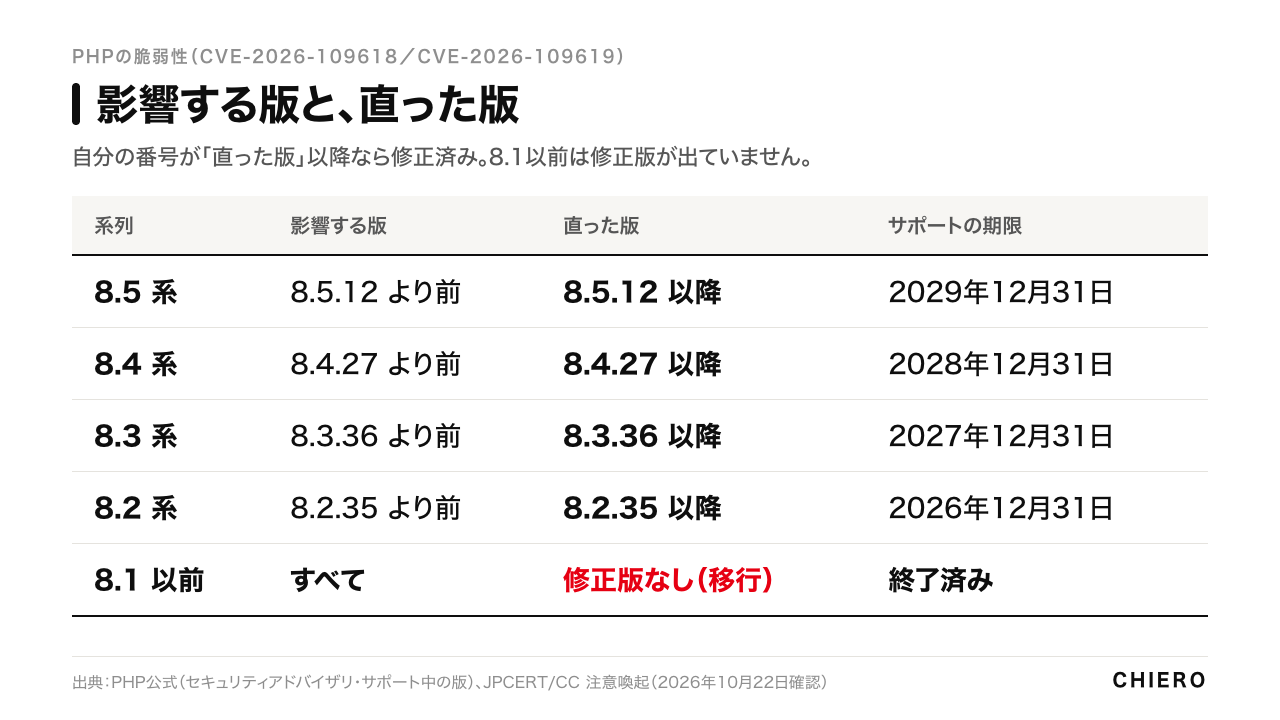
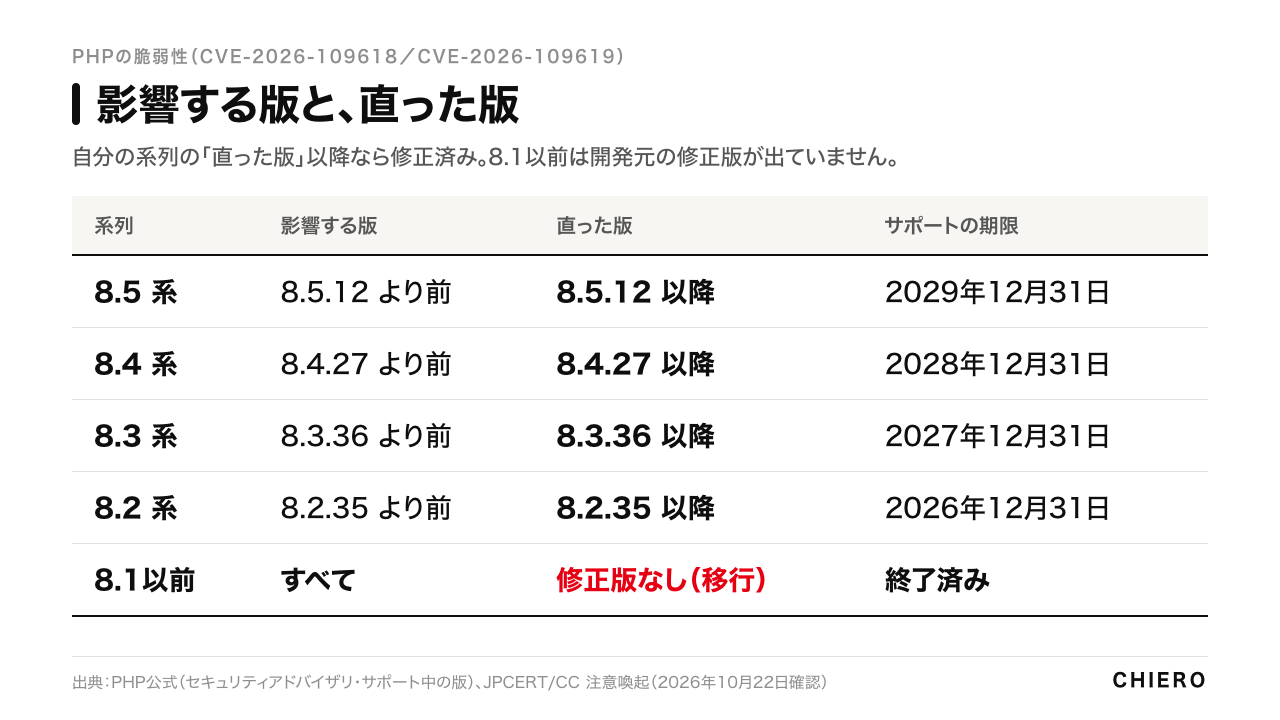
ai/php-vulnerability: 独立点検の指摘を反映（版は系列ごと・確認の時刻・WAFの記述・4パターンの次の手・8.1以前ですぐ切り替えられない時・図解の更新）

diff --git a/ai/php-vulnerability/index.html b/ai/php-vulnerability/index.html
@@ -1,8 +1,8 @@
-<!doctype html><html lang="ja"><head><meta charset="utf-8"><meta name="viewport" content="width=device-width,initial-scale=1"><title>PHPの脆弱性（CVE-2026-109618・109619）今日やること｜初心者向けに4パターンで整理｜CHIERO</title><meta name="description" content="総理大臣も対応を呼びかけたPHPの重大な脆弱性。影響する版と直った版（8.5.12・8.4.27・8.3.36・8.2.35）、WordPress・外注・ノーコード・何も分からない人の4パターン別の確認手順、業者への聞き方の文例、今後の習慣を、PHP公式・JPCERT/CC・IPAの公表をもとにまとめました。"><link rel="canonical" href="https://chiero.jp/ai/php-vulnerability/"><meta name="robots" content="index,follow"><meta property="og:type" content="article"><meta property="og:site_name" content="株式会社CHIERO"><meta property="og:title" content="PHPの脆弱性（CVE-2026-109618・109619）今日やること｜初心者向けに4パターンで整理｜CHIERO"><meta property="og:description" content="総理大臣も対応を呼びかけたPHPの重大な脆弱性。影響する版と直った版（8.5.12・8.4.27・8.3.36・8.2.35）、WordPress・外注・ノーコード・何も分からない人の4パターン別の確認手順、業者への聞き方の文例、今後の習慣を、PHP公式・JPCERT/CC・IPAの公表をもとにまとめました。"><meta property="og:url" content="https://chiero.jp/ai/php-vulnerability/"><meta property="og:image" content="https://chiero.jp/ai/php-vulnerability/og.png"><meta property="og:image:width" content="1200"><meta property="og:image:height" content="630"><meta property="og:locale" content="ja_JP"><meta name="twitter:card" content="summary_large_image"><meta name="twitter:site" content="@chiero_piero"><meta name="twitter:title" content="PHPの脆弱性（CVE-2026-109618・109619）今日やること｜初心者向けに4パターンで整理｜CHIERO"><meta name="twitter:description" content="総理大臣も対応を呼びかけたPHPの重大な脆弱性。影響する版と直った版（8.5.12・8.4.27・8.3.36・8.2.35）、WordPress・外注・ノーコード・何も分からない人の4パターン別の確認手順、業者への聞き方の文例、今後の習慣を、PHP公式・JPCERT/CC・IPAの公表をもとにまとめました。"><meta name="twitter:image" content="https://chiero.jp/ai/php-vulnerability/og.png"><meta name="theme-color" content="#E60012"><link rel="icon" href="/assets/renewal/favicon.svg" type="image/svg+xml"><link rel="stylesheet" href="/assets/renewal/site.css?v=ae48ebfeb38d"><link rel="stylesheet" href="/assets/renewal/learn.css?v=06a2a3f8677e"><script type="application/ld+json">{"@context": "https://schema.org", "@graph": [{"@type": "Organization", "@id": "https://chiero.jp/#organization", "name": "株式会社CHIERO", "legalName": "株式会社CHIERO", "alternateName": "CHIERO Inc.", "url": "https://chiero.jp/", "logo": "https://chiero.jp/apple-touch-icon.png", "description": "チエロ（株式会社CHIERO 代表）は、AI・古典・コーチングを軸に、AIを仕事に入れたい経営者とAIを初めて使う人へ、経営相談・講座・手順の提供を行っています。自社の仕事をAI社員（役割ごとに決まりと手順を持たせたAI）に分けて毎日運営しており、運営の記録の一部を公開し、手順は「AI社員一式」として販売しています。", "foundingDate": "2020-12", "email": "info@chiero.jp", "address": {"@type": "PostalAddress", "addressCountry": "JP", "addressRegion": "福岡県", "addressLocality": "福岡市中央区", "streetAddress": "今泉1丁目3-23"}, "contactPoint": [{"@type": "ContactPoint", "contactType": "customer support", "email": "info@chiero.jp", "url": "https://chiero.jp/contact/", "availableLanguage": ["ja", "en"]}, {"@type": "ContactPoint", "contactType": "consulting inquiries", "email": "work@chiero.jp", "url": "https://work.chiero.jp/", "availableLanguage": ["ja"]}, {"@type": "ContactPoint", "contactType": "media inquiries", "email": "press@chiero.jp", "url": "https://chiero.jp/contact/", "availableLanguage": ["ja"]}], "founder": {"@id": "https://chiero.jp/about/#person"}, "knowsAbout": ["AI社員の運用", "経営相談", "コーチング", "AIの使い方", "出版", "数式アート"], "sameAs": ["https://www.threads.com/@chiero_piero", "https://x.com/chiero_piero", "https://www.instagram.com/chiero_piero/", "https://note.com/kounkt", "https://www.youtube.com/channel/UCS9wlXLeVxTqXgPWU3kn7EQ"]}, {"@type": "Person", "@id": "https://chiero.jp/about/#person", "name": "チエロ", "alternateName": ["中田 光", "Ko Nakata", "CHIERO"], "jobTitle": "代表取締役", "description": "福岡生まれ。九州大学大学院でITと医療を研究したのち、プロの大道芸人として福岡・東京・シドニーで活動。IT企業を経て、2020年12月に株式会社CHIEROを創業。", "url": "https://chiero.jp/about/", "image": "https://chiero.jp/assets/top/img/chiero-640.webp", "worksFor": {"@id": "https://chiero.jp/#organization"}, "knowsAbout": ["AI社員の運用", "経営相談", "コーチング", "出版"], "sameAs": ["https://www.threads.com/@chiero_piero", "https://x.com/chiero_piero", "https://www.instagram.com/chiero_piero/", "https://note.com/kounkt", "https://www.youtube.com/channel/UCS9wlXLeVxTqXgPWU3kn7EQ", "https://www.amazon.co.jp/stores/author/B0DQGV7F8D"]}, {"@type": "WebSite", "@id": "https://chiero.jp/#website", "url": "https://chiero.jp/", "name": "CHIERO", "publisher": {"@id": "https://chiero.jp/#organization"}}, {"@type": "WebPage", "@id": "https://chiero.jp/ai/php-vulnerability/#webpage", "url": "https://chiero.jp/ai/php-vulnerability/", "name": "PHPの脆弱性（CVE-2026-109618・109619）今日やること｜初心者向けに4パターンで整理｜CHIERO", "description": "総理大臣も対応を呼びかけたPHPの重大な脆弱性。影響する版と直った版（8.5.12・8.4.27・8.3.36・8.2.35）、WordPress・外注・ノーコード・何も分からない人の4パターン別の確認手順、業者への聞き方の文例、今後の習慣を、PHP公式・JPCERT/CC・IPAの公表をもとにまとめました。", "inLanguage": "ja", "publisher": {"@id": "https://chiero.jp/#organization"}, "isPartOf": {"@id": "https://chiero.jp/#website"}, "breadcrumb": {"@id": "https://chiero.jp/ai/php-vulnerability/#breadcrumb"}, "mainEntity": {"@id": "https://chiero.jp/ai/php-vulnerability/#article"}}, {"@type": "BreadcrumbList", "@id": "https://chiero.jp/ai/php-vulnerability/#breadcrumb", "itemListElement": [{"@type": "ListItem", "position": 1, "name": "CHIERO", "item": "https://chiero.jp/"}, {"@type": "ListItem", "position": 2, "name": "AIのはじめ方", "item": "https://chiero.jp/ai/"}, {"@type": "ListItem", "position": 3, "name": "PHPの脆弱性、今日やること", "item": "https://chiero.jp/ai/php-vulnerability/"}]}, {"@type": "Article", "@id": "https://chiero.jp/ai/php-vulnerability/#article", "headline": "PHPの脆弱性（CVE-2026-109618・109619）今日やること｜初心者向けに4パターンで整理", "description": "総理大臣も対応を呼びかけたPHPの重大な脆弱性。影響する版と直った版（8.5.12・8.4.27・8.3.36・8.2.35）、WordPress・外注・ノーコード・何も分からない人の4パターン別の確認手順、業者への聞き方の文例、今後の習慣を、PHP公式・JPCERT/CC・IPAの公表をもとにまとめました。", "inLanguage": "ja", "image": "https://chiero.jp/ai/php-vulnerability/og.png", "author": {"@id": "https://chiero.jp/#organization"}, "publisher": {"@id": "https://chiero.jp/#organization"}, "mainEntityOfPage": {"@id": "https://chiero.jp/ai/php-vulnerability/#webpage"}, "datePublished": "2026-10-22", "dateModified": "2026-10-22"}, {"@type": "FAQPage", "@id": "https://chiero.jp/ai/php-vulnerability/#faq", "inLanguage": "ja", "mainEntity": [{"@type": "Question", "name": "PHPの脆弱性で、何が起きたの？", "acceptedAnswer": {"@type": "Answer", "text": "PHPに重大な弱点が2件見つかり、直した版が公開されました。直すのはPHPそのものです。 2026年10月21日（日本時間の夜）、PHPの開発チームが、重大な脆弱性2件（CVE-2026-109618・CVE-2026-109619）を直した 8.5.12・8.4.27・8.3.36・8.2.35 を公開しました。ログインなしで、外からサーバーの上で命令を動かされるおそれ（任意のコード実行）があり、深刻さはどちらもCVSS v4.0で9.2です。8.1以前には修正版が出ません。WordPressやプラグインの更新とは別に、PHPの版を新しくする必要があります。"}}, {"@type": "Question", "name": "どの版が危ないの？", "acceptedAnswer": {"@type": "Answer", "text": "8.5.12・8.4.27・8.3.36・8.2.35 より前の版と、8.1以前の全ての版です。"}}, {"@type": "Question", "name": "自分のサイトは関係ある？", "acceptedAnswer": {"@type": "Answer", "text": "PHPを誰が管理しているかで、やることが変わります。4つのパターンで確かめます。"}}, {"@type": "Question", "name": "今日、何をすればいい？", "acceptedAnswer": {"@type": "Answer", "text": "PHPの版の番号を見て、表と照らし、古ければ切り替えを相談します。"}}, {"@type": "Question", "name": "制作会社や保守会社には、どう聞けばいい？", "acceptedAnswer": {"@type": "Answer", "text": "「版の番号」「いつ直したか」「8.1以前なら移行の予定」「痕跡の確認」の4つを聞きます。 そのまま送れる文例です。会社名や宛名だけ書き換えてください。"}}, {"@type": "Question", "name": "自分でサーバーを管理している場合は？", "acceptedAnswer": {"@type": "Answer", "text": "PHP公式のアドバイザリとJPCERT/CCの注意喚起を直接読み、更新と痕跡の確認をします。"}}, {"@type": "Question", "name": "今後、何に気をつければいい？", "acceptedAnswer": {"@type": "Answer", "text": "自動更新・サポート期限・バックアップ・担当と連絡先。この4つを決めておきます。"}}, {"@type": "Question", "name": "困った時は、どこに相談すればいい？", "acceptedAnswer": {"@type": "Answer", "text": "株式会社CHIEROの公式LINEと、公式サイトの経営相談で受け付けています。 「番号は見たけれど、どうすればいいか分からない」「業者の返事の意味を知りたい」。そんな時は、お気軽にご相談ください。AIを使った経営相談の中で、状況の整理と業者への聞き方づくりをお手伝いします。"}}]}, {"@type": "HowTo", "@id": "https://chiero.jp/ai/php-vulnerability/#howto-check", "name": "PHPの版の番号を見て、表と照らし、古ければ切り替えを相談します。", "inLanguage": "ja", "step": [{"@type": "HowToStep", "position": 1, "name": "PHPの版の番号を見ます。", "text": "PHPの版の番号を見ます。WordPressなら、管理画面の「ツール」→「サイトヘルス」→「情報」→「サーバー」にある「PHPのバージョン」です。レンタルサーバーの管理画面の「PHP」や「PHPバージョン」の項目でも見られます。", "url": "https://chiero.jp/ai/php-vulnerability/#check"}, {"@type": "HowToStep", "position": 2, "name": "番号を上の表と照らします。", "text": "番号を上の表と照らします。8.5.12・8.4.27・8.3.36・8.2.35 以降なら修正済みの版です。番号がそれより前でも、契約先が「全ての版で対応済み」と告知していれば、会社の側で直している場合があります。迷ったら契約先に聞きます。", "url": "https://chiero.jp/ai/php-vulnerability/#check"}, {"@type": "HowToStep", "position": 3, "name": "8.1以前なら、切り替えを相談します。", "text": "8.1以前なら、切り替えを相談します。切り替える前にバックアップを取り、管理画面で8.3以上へ切り替えるのが目安です（8.2は2026年12月31日でサポートが終わります）。", "url": "https://chiero.jp/ai/php-vulnerability/#check"}, {"@type": "HowToStep", "position": 4, "name": "切り替えた後は、トップページ・問い合わせフォーム・予約やカートの画面が動くかを確かめます。", "text": "切り替えた後は、トップページ・問い合わせフォーム・予約やカートの画面が動くかを確かめます。", "url": "https://chiero.jp/ai/php-vulnerability/#check"}]}]}</script><script type="module" src="/assets/renewal/site.js?v=9b7728504f43"></script></head><body class="corporate-site"><a class="skip" href="#main">本文へスキップ</a><header class="header"><a class="brand" href="https://chiero.jp/"><span>CHIER<b>O</b><small>株式会社CHIERO</small></span></a><nav class="desktop-nav" aria-label="メインナビゲーション"><a href="https://work.chiero.jp/">相談の入口</a><a href="https://chiero.jp/works/">作品とアプリ</a><a href="https://chiero.jp/books/">著書</a><a href="https://chiero.jp/about/">会社と代表</a><a class="nav-cta" href="https://chiero.jp/contact/">お問い合わせ <span aria-hidden="true">↗</span></a></nav><details class="mobile-menu"><summary>メニュー <span aria-hidden="true">＋</span></summary><nav aria-label="モバイルナビゲーション"><a href="https://work.chiero.jp/">相談の入口</a><a href="https://chiero.jp/works/">作品とアプリ</a><a href="https://chiero.jp/books/">著書</a><a href="https://chiero.jp/about/">会社と代表</a><a class="nav-cta" href="https://chiero.jp/contact/">お問い合わせ <span aria-hidden="true">↗</span></a></nav></details></header><main id="main"><nav class="breadcrumbs wrap" aria-label="パンくずリスト"><a href="https://chiero.jp/">CHIERO</a><span aria-hidden="true">/</span><a href="https://chiero.jp/ai/">AIのはじめ方</a><span aria-hidden="true">/</span><span>PHPの脆弱性、今日やること</span></nav><article class="reading-page"><header class="wrap page-hero"><p class="eyebrow">GUIDE / セキュリティ</p><h1>PHPの脆弱性、<br><em>今日やること</em></h1><p class="lead">影響する版、自分に関係があるか、確認の手順と業者への聞き方、今後の習慣を、初めての方向けにまとめました。</p><p class="article-meta">執筆：<a href="https://chiero.jp/about/">株式会社CHIERO</a>（AI社員 security-writer が公開情報をもとに作成）<br>公開：<time datetime="2026-10-22">2026年10月22日</time> / 内容は2026年10月22日午後に公式の公表で確認</p></header><div class="wrap reading-layout"><nav class="reading-toc" aria-label="目次"><p class="eyebrow">ON THIS PAGE</p><a href="#answer">何が起きた？</a><a href="#versions">影響する版</a><a href="#who">自分は関係ある？</a><a href="#check">今日やること</a><a href="#ask">業者への聞き方</a><a href="#tech">技術担当の方へ</a><a href="#habits">今後の習慣</a><a href="#ours">当社の運用</a><a href="#contact">相談先</a><a href="#sources">確認した公式情報</a></nav><div class="reading-body"><section id="answer">
+<!doctype html><html lang="ja"><head><meta charset="utf-8"><meta name="viewport" content="width=device-width,initial-scale=1"><title>PHPの脆弱性（CVE-2026-109618・109619）今日やること｜初心者向けに4パターンで整理｜CHIERO</title><meta name="description" content="総理大臣も対応を呼びかけたPHPの重大な脆弱性。影響する版と直った版（8.5.12・8.4.27・8.3.36・8.2.35）、WordPress・外注・ノーコード・何も分からない人の4パターン別の確認手順、業者への聞き方の文例、今後の習慣を、PHP公式・JPCERT/CC・IPAの公表をもとにまとめました。"><link rel="canonical" href="https://chiero.jp/ai/php-vulnerability/"><meta name="robots" content="index,follow"><meta property="og:type" content="article"><meta property="og:site_name" content="株式会社CHIERO"><meta property="og:title" content="PHPの脆弱性（CVE-2026-109618・109619）今日やること｜初心者向けに4パターンで整理｜CHIERO"><meta property="og:description" content="総理大臣も対応を呼びかけたPHPの重大な脆弱性。影響する版と直った版（8.5.12・8.4.27・8.3.36・8.2.35）、WordPress・外注・ノーコード・何も分からない人の4パターン別の確認手順、業者への聞き方の文例、今後の習慣を、PHP公式・JPCERT/CC・IPAの公表をもとにまとめました。"><meta property="og:url" content="https://chiero.jp/ai/php-vulnerability/"><meta property="og:image" content="https://chiero.jp/ai/php-vulnerability/og.png"><meta property="og:image:width" content="1200"><meta property="og:image:height" content="630"><meta property="og:locale" content="ja_JP"><meta name="twitter:card" content="summary_large_image"><meta name="twitter:site" content="@chiero_piero"><meta name="twitter:title" content="PHPの脆弱性（CVE-2026-109618・109619）今日やること｜初心者向けに4パターンで整理｜CHIERO"><meta name="twitter:description" content="総理大臣も対応を呼びかけたPHPの重大な脆弱性。影響する版と直った版（8.5.12・8.4.27・8.3.36・8.2.35）、WordPress・外注・ノーコード・何も分からない人の4パターン別の確認手順、業者への聞き方の文例、今後の習慣を、PHP公式・JPCERT/CC・IPAの公表をもとにまとめました。"><meta name="twitter:image" content="https://chiero.jp/ai/php-vulnerability/og.png"><meta name="theme-color" content="#E60012"><link rel="icon" href="/assets/renewal/favicon.svg" type="image/svg+xml"><link rel="stylesheet" href="/assets/renewal/site.css?v=ae48ebfeb38d"><link rel="stylesheet" href="/assets/renewal/learn.css?v=06a2a3f8677e"><script type="application/ld+json">{"@context": "https://schema.org", "@graph": [{"@type": "Organization", "@id": "https://chiero.jp/#organization", "name": "株式会社CHIERO", "legalName": "株式会社CHIERO", "alternateName": "CHIERO Inc.", "url": "https://chiero.jp/", "logo": "https://chiero.jp/apple-touch-icon.png", "description": "チエロ（株式会社CHIERO 代表）は、AI・古典・コーチングを軸に、AIを仕事に入れたい経営者とAIを初めて使う人へ、経営相談・講座・手順の提供を行っています。自社の仕事をAI社員（役割ごとに決まりと手順を持たせたAI）に分けて毎日運営しており、運営の記録の一部を公開し、手順は「AI社員一式」として販売しています。", "foundingDate": "2020-12", "email": "info@chiero.jp", "address": {"@type": "PostalAddress", "addressCountry": "JP", "addressRegion": "福岡県", "addressLocality": "福岡市中央区", "streetAddress": "今泉1丁目3-23"}, "contactPoint": [{"@type": "ContactPoint", "contactType": "customer support", "email": "info@chiero.jp", "url": "https://chiero.jp/contact/", "availableLanguage": ["ja", "en"]}, {"@type": "ContactPoint", "contactType": "consulting inquiries", "email": "work@chiero.jp", "url": "https://work.chiero.jp/", "availableLanguage": ["ja"]}, {"@type": "ContactPoint", "contactType": "media inquiries", "email": "press@chiero.jp", "url": "https://chiero.jp/contact/", "availableLanguage": ["ja"]}], "founder": {"@id": "https://chiero.jp/about/#person"}, "knowsAbout": ["AI社員の運用", "経営相談", "コーチング", "AIの使い方", "出版", "数式アート"], "sameAs": ["https://www.threads.com/@chiero_piero", "https://x.com/chiero_piero", "https://www.instagram.com/chiero_piero/", "https://note.com/kounkt", "https://www.youtube.com/channel/UCS9wlXLeVxTqXgPWU3kn7EQ"]}, {"@type": "Person", "@id": "https://chiero.jp/about/#person", "name": "チエロ", "alternateName": ["中田 光", "Ko Nakata", "CHIERO"], "jobTitle": "代表取締役", "description": "福岡生まれ。九州大学大学院でITと医療を研究したのち、プロの大道芸人として福岡・東京・シドニーで活動。IT企業を経て、2020年12月に株式会社CHIEROを創業。", "url": "https://chiero.jp/about/", "image": "https://chiero.jp/assets/top/img/chiero-640.webp", "worksFor": {"@id": "https://chiero.jp/#organization"}, "knowsAbout": ["AI社員の運用", "経営相談", "コーチング", "出版"], "sameAs": ["https://www.threads.com/@chiero_piero", "https://x.com/chiero_piero", "https://www.instagram.com/chiero_piero/", "https://note.com/kounkt", "https://www.youtube.com/channel/UCS9wlXLeVxTqXgPWU3kn7EQ", "https://www.amazon.co.jp/stores/author/B0DQGV7F8D"]}, {"@type": "WebSite", "@id": "https://chiero.jp/#website", "url": "https://chiero.jp/", "name": "CHIERO", "publisher": {"@id": "https://chiero.jp/#organization"}}, {"@type": "WebPage", "@id": "https://chiero.jp/ai/php-vulnerability/#webpage", "url": "https://chiero.jp/ai/php-vulnerability/", "name": "PHPの脆弱性（CVE-2026-109618・109619）今日やること｜初心者向けに4パターンで整理｜CHIERO", "description": "総理大臣も対応を呼びかけたPHPの重大な脆弱性。影響する版と直った版（8.5.12・8.4.27・8.3.36・8.2.35）、WordPress・外注・ノーコード・何も分からない人の4パターン別の確認手順、業者への聞き方の文例、今後の習慣を、PHP公式・JPCERT/CC・IPAの公表をもとにまとめました。", "inLanguage": "ja", "publisher": {"@id": "https://chiero.jp/#organization"}, "isPartOf": {"@id": "https://chiero.jp/#website"}, "breadcrumb": {"@id": "https://chiero.jp/ai/php-vulnerability/#breadcrumb"}, "mainEntity": {"@id": "https://chiero.jp/ai/php-vulnerability/#article"}}, {"@type": "BreadcrumbList", "@id": "https://chiero.jp/ai/php-vulnerability/#breadcrumb", "itemListElement": [{"@type": "ListItem", "position": 1, "name": "CHIERO", "item": "https://chiero.jp/"}, {"@type": "ListItem", "position": 2, "name": "AIのはじめ方", "item": "https://chiero.jp/ai/"}, {"@type": "ListItem", "position": 3, "name": "PHPの脆弱性、今日やること", "item": "https://chiero.jp/ai/php-vulnerability/"}]}, {"@type": "Article", "@id": "https://chiero.jp/ai/php-vulnerability/#article", "headline": "PHPの脆弱性（CVE-2026-109618・109619）今日やること｜初心者向けに4パターンで整理", "description": "総理大臣も対応を呼びかけたPHPの重大な脆弱性。影響する版と直った版（8.5.12・8.4.27・8.3.36・8.2.35）、WordPress・外注・ノーコード・何も分からない人の4パターン別の確認手順、業者への聞き方の文例、今後の習慣を、PHP公式・JPCERT/CC・IPAの公表をもとにまとめました。", "inLanguage": "ja", "image": "https://chiero.jp/ai/php-vulnerability/og.png", "author": {"@id": "https://chiero.jp/#organization"}, "publisher": {"@id": "https://chiero.jp/#organization"}, "mainEntityOfPage": {"@id": "https://chiero.jp/ai/php-vulnerability/#webpage"}, "datePublished": "2026-10-22", "dateModified": "2026-10-22"}, {"@type": "FAQPage", "@id": "https://chiero.jp/ai/php-vulnerability/#faq", "inLanguage": "ja", "mainEntity": [{"@type": "Question", "name": "PHPの脆弱性で、何が起きたの？", "acceptedAnswer": {"@type": "Answer", "text": "PHPに重大な弱点が2件見つかり、直した版が公開されました。直すのはPHPそのものです。 2026年10月21日、PHPの開発チームが、重大な脆弱性2件（CVE-2026-109618・CVE-2026-109619）を直した 8.5.12・8.4.27・8.3.36・8.2.35 を公開しました。ログインなしで、外からサーバーの上で命令を動かされるおそれ（任意のコード実行）があり、深刻さはどちらもCVSS v4.0で9.2です。8.1以前には開発元からの修正版が出ません。WordPressやプラグインの更新とは別に、PHPの版を新しくする必要があります。"}}, {"@type": "Question", "name": "どの版が危ないの？", "acceptedAnswer": {"@type": "Answer", "text": "8.5.12・8.4.27・8.3.36・8.2.35 より前の版と、8.1以前の全ての版です。"}}, {"@type": "Question", "name": "自分のサイトは関係ある？", "acceptedAnswer": {"@type": "Answer", "text": "PHPを誰が管理しているかで、やることが変わります。4つのパターンで確かめます。"}}, {"@type": "Question", "name": "今日、何をすればいい？", "acceptedAnswer": {"@type": "Answer", "text": "PHPの版の番号を見て、表と照らし、古ければ切り替えを相談します。"}}, {"@type": "Question", "name": "制作会社や保守会社には、どう聞けばいい？", "acceptedAnswer": {"@type": "Answer", "text": "「版の番号」「いつ直したか」「8.1以前なら移行の予定」「痕跡の確認」の4つを聞きます。 そのまま送れる文例です。宛名を足し、必要なら「当サイト」を「弊社サイト」などに書き換えてください。"}}, {"@type": "Question", "name": "自分でサーバーを管理している場合は？", "acceptedAnswer": {"@type": "Answer", "text": "PHP公式のアドバイザリとJPCERT/CCの注意喚起を直接読み、更新と痕跡の確認をします。"}}, {"@type": "Question", "name": "今後、何に気をつければいい？", "acceptedAnswer": {"@type": "Answer", "text": "自動更新・サポート期限・バックアップ・担当と連絡先。この4つを決めておきます。"}}, {"@type": "Question", "name": "困った時は、どこに相談すればいい？", "acceptedAnswer": {"@type": "Answer", "text": "株式会社CHIEROの公式LINEと、公式サイトの経営相談で受け付けています。 「番号は見たけれど、どうすればいいか分からない」「業者の返事の意味を知りたい」。そんな時は、お気軽にご相談ください。AIを使った経営相談の中で、状況の整理と業者への聞き方づくりをお手伝いします。"}}]}, {"@type": "HowTo", "@id": "https://chiero.jp/ai/php-vulnerability/#howto-check", "name": "PHPの版の番号を見て、表と照らし、古ければ切り替えを相談します。", "inLanguage": "ja", "step": [{"@type": "HowToStep", "position": 1, "name": "PHPの版の番号を見ます。", "text": "PHPの版の番号を見ます。WordPressなら、管理画面の「ツール」→「サイトヘルス」→「情報」→「サーバー」にある「PHPのバージョン」です。レンタルサーバーの管理画面の「PHP」や「PHPバージョン」の項目でも見られます。", "url": "https://chiero.jp/ai/php-vulnerability/#check"}, {"@type": "HowToStep", "position": 2, "name": "番号を上の表と照らします。", "text": "番号を上の表と照らします。自分の系列で、8.5系は8.5.12、8.4系は8.4.27、8.3系は8.3.36、8.2系は8.2.35以降なら修正済みの版です。番号がそれより前でも、契約先が「全ての版で対応済み」と告知していれば、会社の側で直している場合があります。迷ったら契約先に聞きます。", "url": "https://chiero.jp/ai/php-vulnerability/#check"}, {"@type": "HowToStep", "position": 3, "name": "8.1以前なら、切り替えを相談します。", "text": "8.1以前なら、切り替えを相談します。切り替える前にバックアップを取り、管理画面で8.3以上へ切り替えるのが目安です（8.2は2026年12月31日でサポートが終わります）。すぐに切り替えられない時は、契約先や制作会社に、一時的な停止やアクセスの制限ができるかを聞きます（IPA・国家サイバー統括室も、すぐ直せない場合の手として挙げています）。", "url": "https://chiero.jp/ai/php-vulnerability/#check"}, {"@type": "HowToStep", "position": 4, "name": "切り替えた後は、トップページ・問い合わせフォーム・予約やカートの画面が動くかを確かめます。", "text": "切り替えた後は、トップページ・問い合わせフォーム・予約やカートの画面が動くかを確かめます。", "url": "https://chiero.jp/ai/php-vulnerability/#check"}]}]}</script><script type="module" src="/assets/renewal/site.js?v=9b7728504f43"></script></head><body class="corporate-site"><a class="skip" href="#main">本文へスキップ</a><header class="header"><a class="brand" href="https://chiero.jp/"><span>CHIER<b>O</b><small>株式会社CHIERO</small></span></a><nav class="desktop-nav" aria-label="メインナビゲーション"><a href="https://work.chiero.jp/">相談の入口</a><a href="https://chiero.jp/works/">作品とアプリ</a><a href="https://chiero.jp/books/">著書</a><a href="https://chiero.jp/about/">会社と代表</a><a class="nav-cta" href="https://chiero.jp/contact/">お問い合わせ <span aria-hidden="true">↗</span></a></nav><details class="mobile-menu"><summary>メニュー <span aria-hidden="true">＋</span></summary><nav aria-label="モバイルナビゲーション"><a href="https://work.chiero.jp/">相談の入口</a><a href="https://chiero.jp/works/">作品とアプリ</a><a href="https://chiero.jp/books/">著書</a><a href="https://chiero.jp/about/">会社と代表</a><a class="nav-cta" href="https://chiero.jp/contact/">お問い合わせ <span aria-hidden="true">↗</span></a></nav></details></header><main id="main"><nav class="breadcrumbs wrap" aria-label="パンくずリスト"><a href="https://chiero.jp/">CHIERO</a><span aria-hidden="true">/</span><a href="https://chiero.jp/ai/">AIのはじめ方</a><span aria-hidden="true">/</span><span>PHPの脆弱性、今日やること</span></nav><article class="reading-page"><header class="wrap page-hero"><p class="eyebrow">GUIDE / セキュリティ</p><h1>PHPの脆弱性、<br><em>今日やること</em></h1><p class="lead">影響する版、自分に関係があるか、確認の手順と業者への聞き方、今後の習慣を、初めての方向けにまとめました。</p><p class="article-meta">執筆：<a href="https://chiero.jp/about/">株式会社CHIERO</a>（AI社員 security-writer が公開情報をもとに作成）<br>公開：<time datetime="2026-10-22">2026年10月22日</time> / 内容は2026年10月22日午後に公式の公表で確認</p></header><div class="wrap reading-layout"><nav class="reading-toc" aria-label="目次"><p class="eyebrow">ON THIS PAGE</p><a href="#answer">何が起きた？</a><a href="#versions">影響する版</a><a href="#who">自分は関係ある？</a><a href="#check">今日やること</a><a href="#ask">業者への聞き方</a><a href="#tech">技術担当の方へ</a><a href="#habits">今後の習慣</a><a href="#ours">当社の運用</a><a href="#contact">相談先</a><a href="#sources">確認した公式情報</a></nav><div class="reading-body"><section id="answer">
 <p class="q">Q. PHPの脆弱性で、何が起きたの？</p>
 <h2>PHPに重大な弱点が2件見つかり、直した版が公開されました。直すのはPHPそのものです。</h2>
-<p class="answer-box">2026年10月21日（日本時間の夜）、PHPの開発チームが、重大な脆弱性2件（CVE-2026-109618・CVE-2026-109619）を直した 8.5.12・8.4.27・8.3.36・8.2.35 を公開しました。ログインなしで、外からサーバーの上で命令を動かされるおそれ（任意のコード実行）があり、深刻さはどちらもCVSS v4.0で9.2です。8.1以前には修正版が出ません。WordPressやプラグインの更新とは別に、PHPの版を新しくする必要があります。</p>
-<p>PHPは、ホームページ・ネットショップ・予約フォームなどを動かす「裏側の言葉（プログラミング言語）」です。WordPressもPHPで動いています。開発チームは、Webのリクエストを処理する全てのPHPの環境（PHP-FPM、ApacheのPHPモジュール、php-cgi、FrankenPHP、LiteSpeedなど）が対象で、中でもApacheのPHPモジュール（mod_php）が最も危険だと説明しています。</p>
+<p class="answer-box">2026年10月21日、PHPの開発チームが、重大な脆弱性2件（CVE-2026-109618・CVE-2026-109619）を直した 8.5.12・8.4.27・8.3.36・8.2.35 を公開しました。ログインなしで、外からサーバーの上で命令を動かされるおそれ（任意のコード実行）があり、深刻さはどちらもCVSS v4.0で9.2です。8.1以前には開発元からの修正版が出ません。WordPressやプラグインの更新とは別に、PHPの版を新しくする必要があります。</p>
+<p>PHPは、ホームページ・ネットショップ・予約フォームなどを動かす「裏側の言葉（プログラミング言語）」です。WordPressもPHPで動いています。CVEは脆弱性に付く世界共通の番号、CVSSは深刻さを10点満点で表す採点の方法です。修正版は、事前の告知どおり日本時間の夜（23時の予定）に公開されました。</p>
 <p>修正版の公開の約1時間前、高市早苗首相がXで「大至急のお願い」として、PHPを使っているかの確認と、修正版をすぐ当てる準備を呼びかけました。国家サイバー統括室も、すぐに当てるのが難しい場合はサイトを一時的に止めることもリスクを下げる有効な手の一つ、と発信しています。</p>
 <p class="pitfall"><b>攻撃の状況</b>Cloudflare社は、正式な公開の前に情報が漏れ、顧客を狙う攻撃の通信を観測したと公表しています。米国のCISAは公開時点で悪用は観測していないとし、IPAも事前の案内の時点で攻撃は確認していないとしていました。国内で実際に侵入された被害の件数は、公開情報では確認できません。</p>
 <p class="micro">この記事の内容は、2026年10月22日午後（日本時間）に、PHP公式・JPCERT/CC・IPA・JVN・首相と国家サイバー統括室のXの投稿・各社の告知の原文で確認したものです。状況は変わることがあるので、最新は末尾の公式情報で確かめてください。</p>
@@ -24,7 +24,7 @@
 </tbody>
 </table>
 </div>
-<p>PHPの開発チームは、8.1以前には更新を出さないとしています（ソースから組み立てる人向けに、7.4・8.0・8.1の最小限の修正は公開）。Linuxの配布元や長期サポートの会社が独自に直している場合があるので、その場合は提供元の情報を確かめます。発見した研究チーム（Wiz）は、5.4以降の過去10年ほどの版が、少なくともどちらかの影響を受けるとしています。</p>
+<p>修正版は系列ごとです。たとえば8.4系なら8.4.27以降が修正済みで、8.4.20は修正前です。PHPの開発チームは、8.1以前には更新を出さないとしています（ソースから組み立てる人向けに、7.4・8.0・8.1の最小限の修正は公開）。Linuxの配布元や長期サポートの会社、レンタルサーバーの会社が独自に直している場合があるので、その場合は提供元の情報を確かめます。発見した研究チーム（Wiz）は、5.4までさかのぼるほぼ全ての版（直近10年のどの版も）が、少なくともどちらかの影響を受けるとしています。</p>
 </section>
 
 <section id="who">
@@ -32,13 +32,15 @@
 <h2>PHPを誰が管理しているかで、やることが変わります。4つのパターンで確かめます。</h2>
 <figure><img src="/ai/php-vulnerability/img/d03_flow.png" alt="4つのパターン。レンタルサーバーでWordPress、制作会社に任せている、ノーコードのサービス、何も分からない。それぞれの今日やること" width="1280" height="720" loading="lazy" style="width:100%;height:auto"></figure>
 <h3>① レンタルサーバーでWordPressを動かしている</h3>
-<p>PHPの本体は、多くの場合レンタルサーバーの会社が管理しています。まず契約先のお知らせを見ます。たとえば、さくらインターネットは管理画面で選べる全ての版で対応を終えたと告知しました。エックスサーバーは、8.2〜8.5の全サーバーに修正を当て終え、古い版は検証できたものから順に進めていると発表しています。</p>
+<p>PHPの本体は、多くの場合レンタルサーバーの会社が管理しています。まず契約先のお知らせ（管理画面のお知らせ・届いたメール・公式サイトや公式X）を見ます。たとえば、さくらインターネットは、コントロールパネルで選べる全てのPHPの版で対応を終えたと告知しました（phpMyAdminなど一部の道具は順に対応）。エックスサーバーは、8.2〜8.5の全サーバーに修正を当て終え、古い版は検証できたものから順に進めていると発表しています。ほかの会社も、契約先のお知らせを見るのが最初です。見つからない時は、契約先のサポートに問い合わせます。</p>
 <h3>② 自社サイトを制作会社に任せている</h3>
-<p>保守の契約があれば、制作会社や保守会社が対応する立場です。下の文例で「版の番号」と「いつ直したか」を聞くのが早道です。</p>
+<p>保守の契約があれば、制作会社や保守会社が対応する立場です。下の文例で「版の番号」と「いつ直したか」を聞くのが早道です。保守の契約が無い場合も、サイトを作った会社へ文例を送ります。連絡が取れない時は、サーバーの契約先へ聞きます。</p>
 <h3>③ ノーコードのサービスで作っている</h3>
-<p>サーバーはサービスの運営会社が管理しています。運営会社のお知らせやヘルプを見て、案内があればそれに従います。</p>
+<p>サーバーはサービスの運営会社が管理しています。運営会社のお知らせやヘルプを見て、案内があればそれに従います。案内が見つからない時は、運営会社のサポートに問い合わせます。</p>
 <h3>④ 何も分からない</h3>
-<p>まず、サイトのサーバー代やドメイン代をどこに払っているかを探します。請求書やクレジットカードの明細に、レンタルサーバーや制作会社の名前があれば、そこが窓口です。</p>
+<p>まず、サイトのサーバー代をどこに払っているかを探します。請求書やクレジットカードの明細に、レンタルサーバーや制作会社の名前があれば、そこが窓口です。見つからない時は、サイトを作った人や、サーバーの案内メールの差出人に聞きます。</p>
+<h3>⑤ サーバーを自分で管理している</h3>
+<p>下の「自分でサーバーを管理している場合は？」へ進み、PHP公式とJPCERT/CCの原文を直接読みます。</p>
 </section>
 
 <section id="check">
@@ -49,8 +51,8 @@
 <h3>やってみる</h3>
 <ol>
 <li>PHPの版の番号を見ます。WordPressなら、管理画面の「ツール」→「サイトヘルス」→「情報」→「サーバー」にある「PHPのバージョン」です。レンタルサーバーの管理画面の「PHP」や「PHPバージョン」の項目でも見られます。</li>
-<li>番号を上の表と照らします。8.5.12・8.4.27・8.3.36・8.2.35 以降なら修正済みの版です。番号がそれより前でも、契約先が「全ての版で対応済み」と告知していれば、会社の側で直している場合があります。迷ったら契約先に聞きます。</li>
-<li>8.1以前なら、切り替えを相談します。切り替える前にバックアップを取り、管理画面で8.3以上へ切り替えるのが目安です（8.2は2026年12月31日でサポートが終わります）。</li>
+<li>番号を上の表と照らします。自分の系列で、8.5系は8.5.12、8.4系は8.4.27、8.3系は8.3.36、8.2系は8.2.35以降なら修正済みの版です。番号がそれより前でも、契約先が「全ての版で対応済み」と告知していれば、会社の側で直している場合があります。迷ったら契約先に聞きます。</li>
+<li>8.1以前なら、切り替えを相談します。切り替える前にバックアップを取り、管理画面で8.3以上へ切り替えるのが目安です（8.2は2026年12月31日でサポートが終わります）。すぐに切り替えられない時は、契約先や制作会社に、一時的な停止やアクセスの制限ができるかを聞きます（IPA・国家サイバー統括室も、すぐ直せない場合の手として挙げています）。</li>
 <li>切り替えた後は、トップページ・問い合わせフォーム・予約やカートの画面が動くかを確かめます。</li>
 </ol>
 </div>
@@ -60,9 +62,9 @@
 <section id="ask">
 <p class="q">Q. 制作会社や保守会社には、どう聞けばいい？</p>
 <h2>「版の番号」「いつ直したか」「8.1以前なら移行の予定」「痕跡の確認」の4つを聞きます。</h2>
-<p>そのまま送れる文例です。会社名や宛名だけ書き換えてください。</p>
+<p>そのまま送れる文例です。宛名を足し、必要なら「当サイト」を「弊社サイト」などに書き換えてください。</p>
 <pre class="prompt">いつもお世話になっております。PHPの重大な脆弱性（CVE-2026-109618／CVE-2026-109619）の件で確認させてください。
-1. 弊社サイトで動いているPHPの版の番号
+1. 当サイトで動いているPHPの版の番号
 2. 修正版（8.5.12／8.4.27／8.3.36／8.2.35 以降）への更新、または同じ修正の適用が済んでいるか。済んでいれば日時
 3. 8.1以前の場合、移行の予定と費用の目安
 4. JPCERT/CCの注意喚起にある、攻撃の痕跡の確認をしていただけるか
@@ -74,10 +76,11 @@
 <p class="q">Q. 自分でサーバーを管理している場合は？</p>
 <h2>PHP公式のアドバイザリとJPCERT/CCの注意喚起を直接読み、更新と痕跡の確認をします。</h2>
 <ul>
+<li>対象は、Webのリクエストを処理する全てのPHPの環境（PHP-FPM、ApacheのPHPモジュール、php-cgi、FrankenPHP、LiteSpeedなど）で、PHP公式はApacheのPHPモジュール（mod_php）が最も危険だと説明しています。</li>
 <li>完全な対策は修正版への更新だけです。PHP公式が示す一時的な緩和策（memory_limit・post_max_size・session.upload_progress.enabled など）は、一部の攻撃の経路を減らすものと位置づけられています。</li>
 <li>コマンドで見る版（php -v）と、Webで動いているPHP（FPMやApacheのモジュール）が別のことがあります。Webで動いているほうを確かめます。</li>
 <li>JPCERT/CCは、更新に加えて、長すぎる・形の崩れたPHPSESSIDのCookie、不審なmultipart/form-dataのリクエストとその前後のメモリ上限のエラーやHTTP 500、PHPのワーカーの異常終了や頻繁な再起動などの痕跡の確認を勧めています。痕跡が見つからなくても、攻撃を受けていないとは言い切れない、とも書いています。</li>
-<li>CloudflareなどのWAFは、無料プランを含めて規則を配備したと公表していますが、各社ともPHPの更新が前提の補助としています。</li>
+<li>Cloudflareは、無料プランを含めてWAFの規則を自動で配備したと公表していますが、PHPの更新の代わりにはならず、補助だと案内しています。</li>
 </ul>
 </section>
 
@@ -97,10 +100,10 @@
 
 <section id="ours">
 <p class="q">Q. 当社では、実際にどうしている？</p>
-<h2>このサイト（chiero.jp）は、PHPを使わない静的なページの配信で運用しています。</h2>
+<h2>このサイト（chiero.jp）は、書き出したHTMLをそのまま配信する静的なサイトで運用しています。</h2>
 <ul>
 <li>chiero.jp のページは、書き出したHTMLをそのまま配信する形にしています。</li>
-<li>この記事は、当社のAI社員（security-writer）が公開情報を調べて書き、別のAIが出典と照らして点検しました。</li>
+<li>この記事は、当社のAI社員（security-writer）が公開情報を調べて書き、別のAIが出典と照らして点検し、指摘を直してから更新しました（2026年10月22日）。</li>
 </ul>
 </section>
 
@@ -133,6 +136,7 @@
 <li><a href="https://help.sakura.ad.jp/notification/n-2700/">さくらインターネット：PHPの脆弱性への対応状況について</a></li>
 <li><a href="https://x.com/xserverjp/status/2113023623699341814">エックスサーバー公式のXの投稿（メンテナンス状況について③）</a></li>
 </ul>
-<p class="micro">2026年10月22日 14時50分〜15時20分（日本時間）に原文を表示して確認しました。</p>
+<p class="micro">2026年10月22日午後（日本時間）に原文を表示して確認しました。</p>
+<p class="micro">この記事は、株式会社CHIEROのAI社員（security-writer）が公開情報をもとに書きました。</p>
 </section>
 <aside class="reading-callout"><h3>PHPの件、ひとりで迷ったら</h3><p>「番号は見たけれど、どうすればいいか分からない」「業者の返事の意味を知りたい」。株式会社CHIEROの公式LINEで、気軽なご質問を受け付けています。腰を据えた相談は、公式サイトの経営相談からどうぞ。</p><a class="button dark" href="https://chiero.jp/go/official/php/">公式LINEで質問する <span aria-hidden="true">→</span></a> <p class="micro"><a href="https://work.chiero.jp/">経営相談のお申し込み（work.chiero.jp）</a></p></aside><aside class="reading-related"><h2>次に読む</h2><a href="https://chiero.jp/ai/ai-start/">AI初心者は何から始める？最初の1週間 →</a><a href="https://chiero.jp/ai/chatgpt-privacy/">ChatGPTに入れてはいけない情報 →</a><a href="https://chiero.jp/ai/">AIのはじめ方の一覧 →</a></aside></div></div></article></main><footer class="footer"><div class="footer-top"><a class="footer-wordmark" href="https://chiero.jp/">CHIERO<span>株式会社CHIERO</span></a><div class="footer-nav"><a href="https://work.chiero.jp/">経営相談・経営顧問</a><a href="https://chiero.jp/works/">作品とアプリ</a><a href="https://chiero.jp/books/">著書</a><a href="https://chiero.jp/about/">会社と代表</a><a href="https://chiero.jp/press/">取材・掲載</a><a href="https://chiero.jp/journal/">実験と記録</a><a href="https://chiero.jp/free/">無料で試す</a><a href="https://chiero.jp/contact/">お問い合わせ</a></div><div class="socials"><a href="https://www.threads.com/@chiero_piero">Threads ↗</a><a href="https://x.com/chiero_piero">X ↗</a><a href="https://www.instagram.com/chiero_piero/">Instagram ↗</a><a href="https://note.com/kounkt">note ↗</a></div></div><div class="footer-bottom"><span>© CHIERO Inc.</span><span>FUKUOKA, JAPAN / EST. 2020</span><a href="https://chiero.jp/privacy/">プライバシーポリシー</a><button class="share-button" type="button" data-share-page hidden>このページを共有 ↗</button><button class="motion-button" type="button" aria-pressed="false" hidden>動きを止める</button></div></footer><div class="status" role="status" aria-live="polite"></div><script defer src="https://static.cloudflareinsights.com/beacon.min.js" data-cf-beacon='{"token": "87c0b3b3197c484598ee1d3d073b56df"}'></script></body></html>
